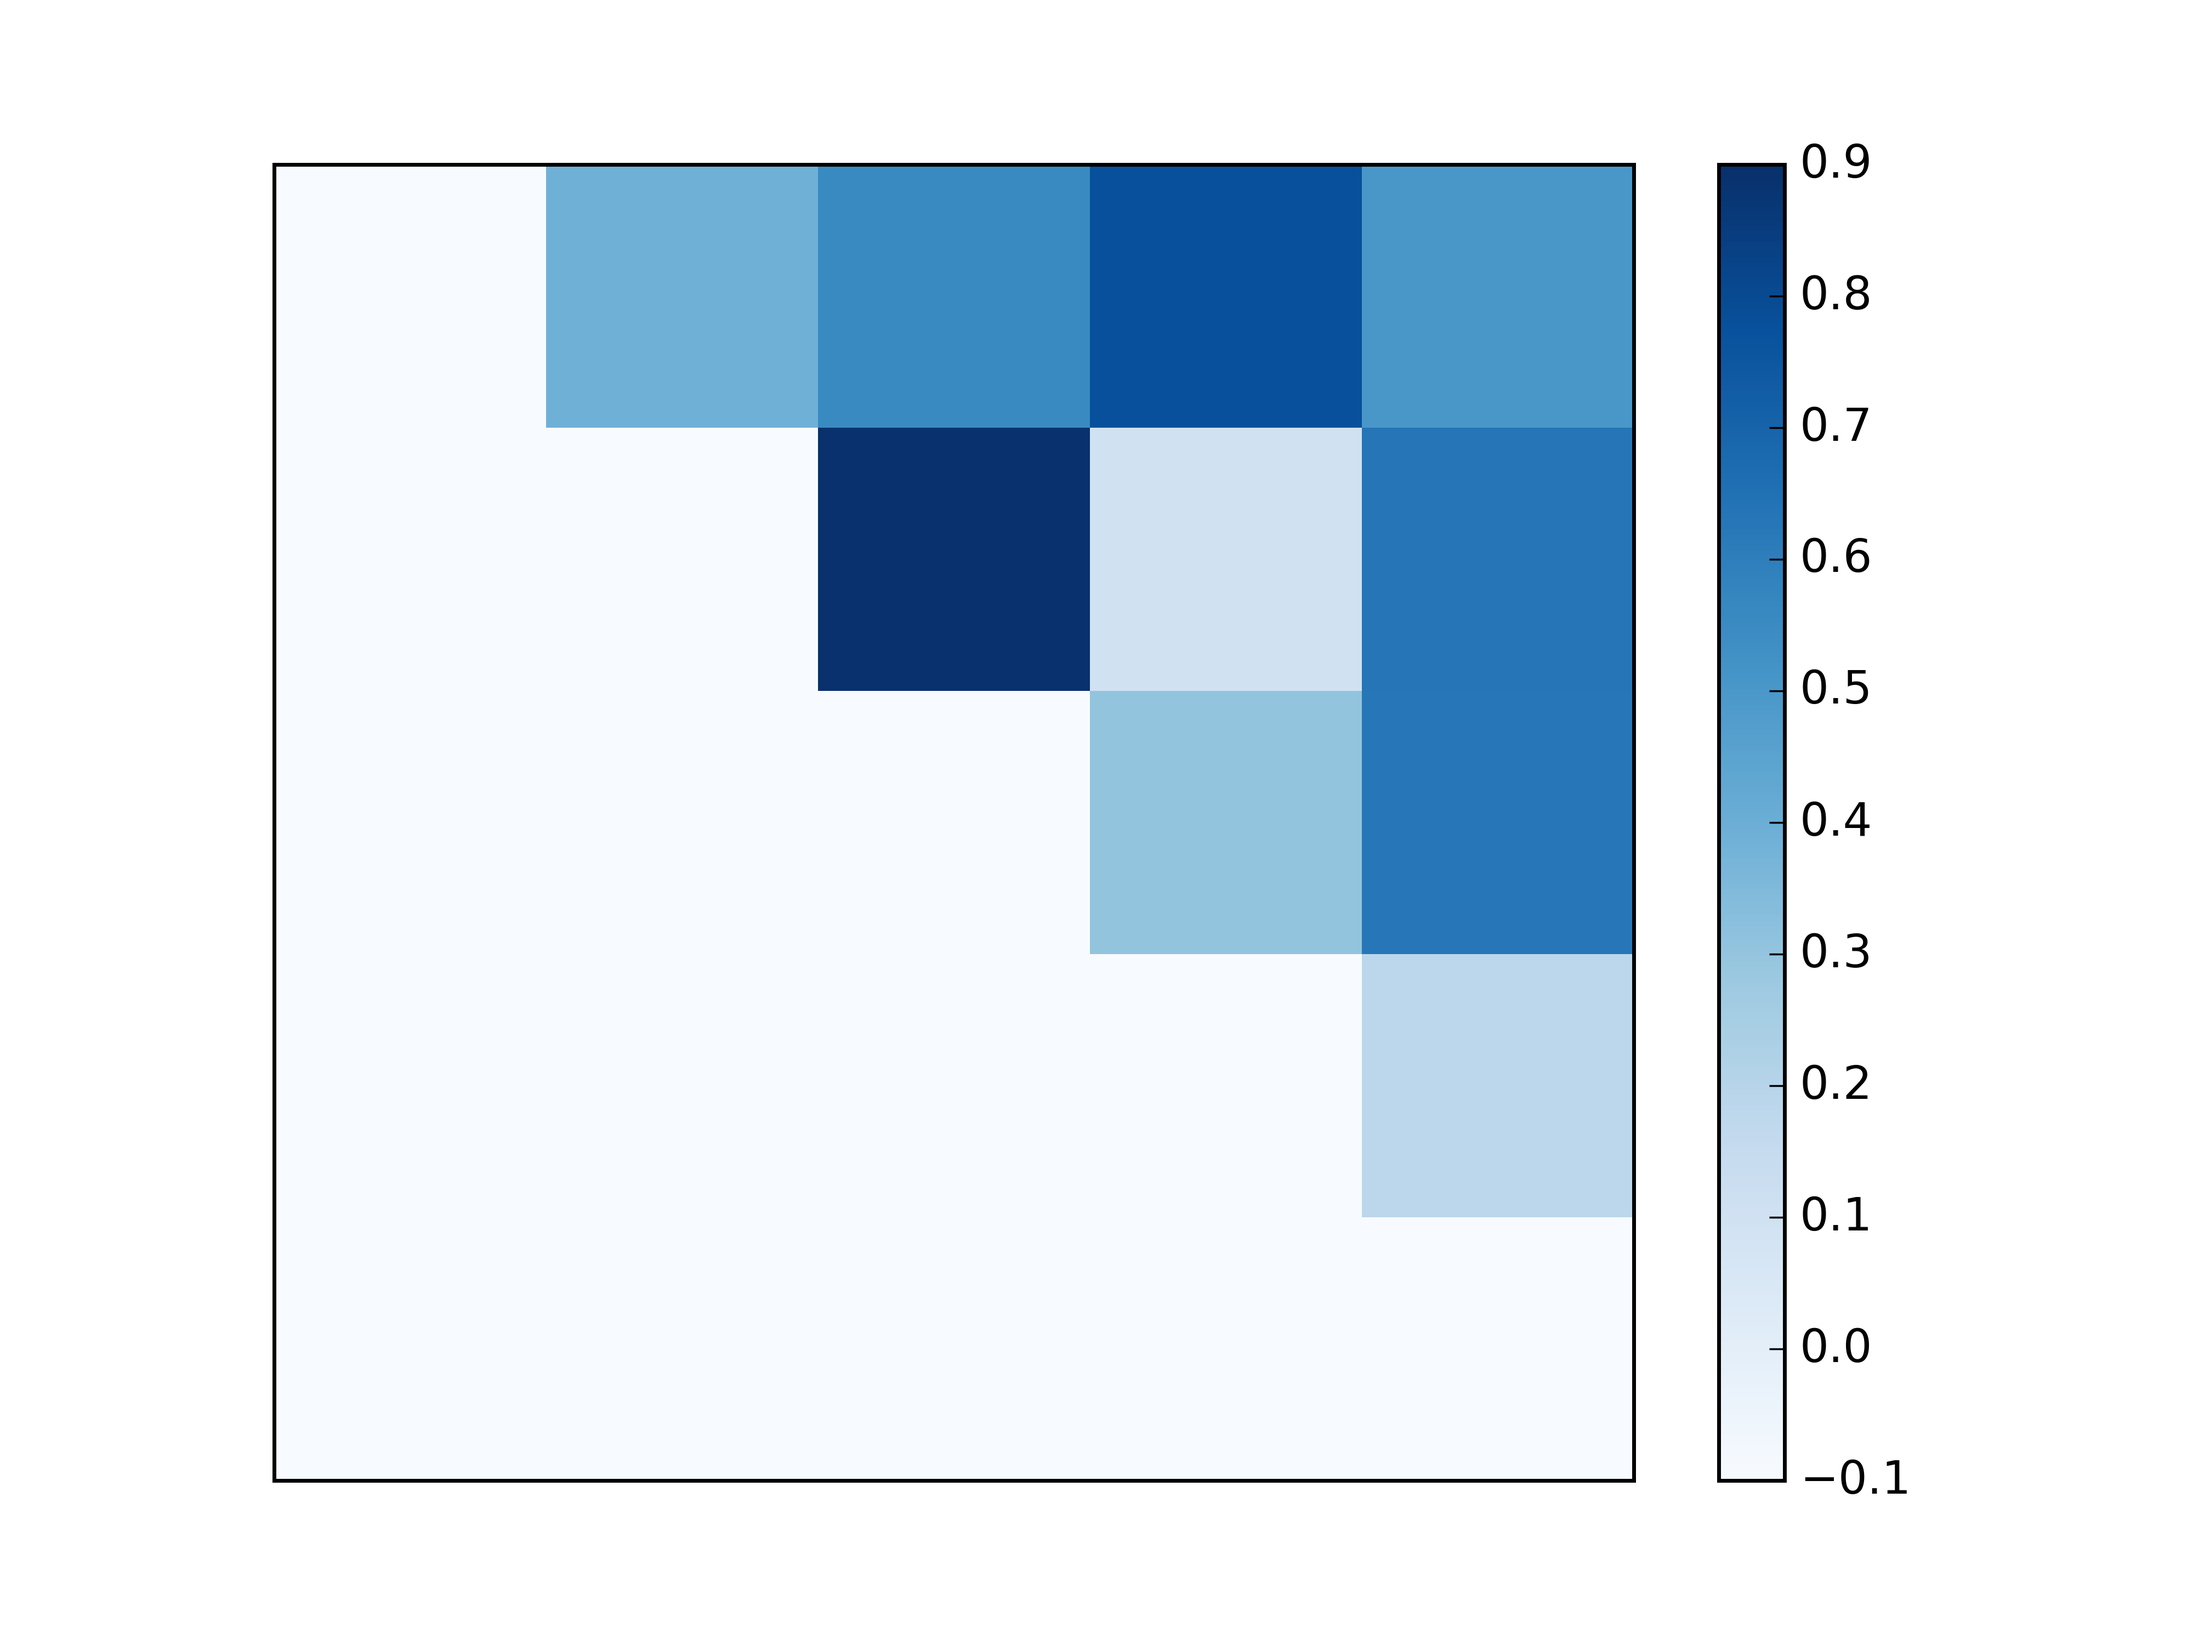
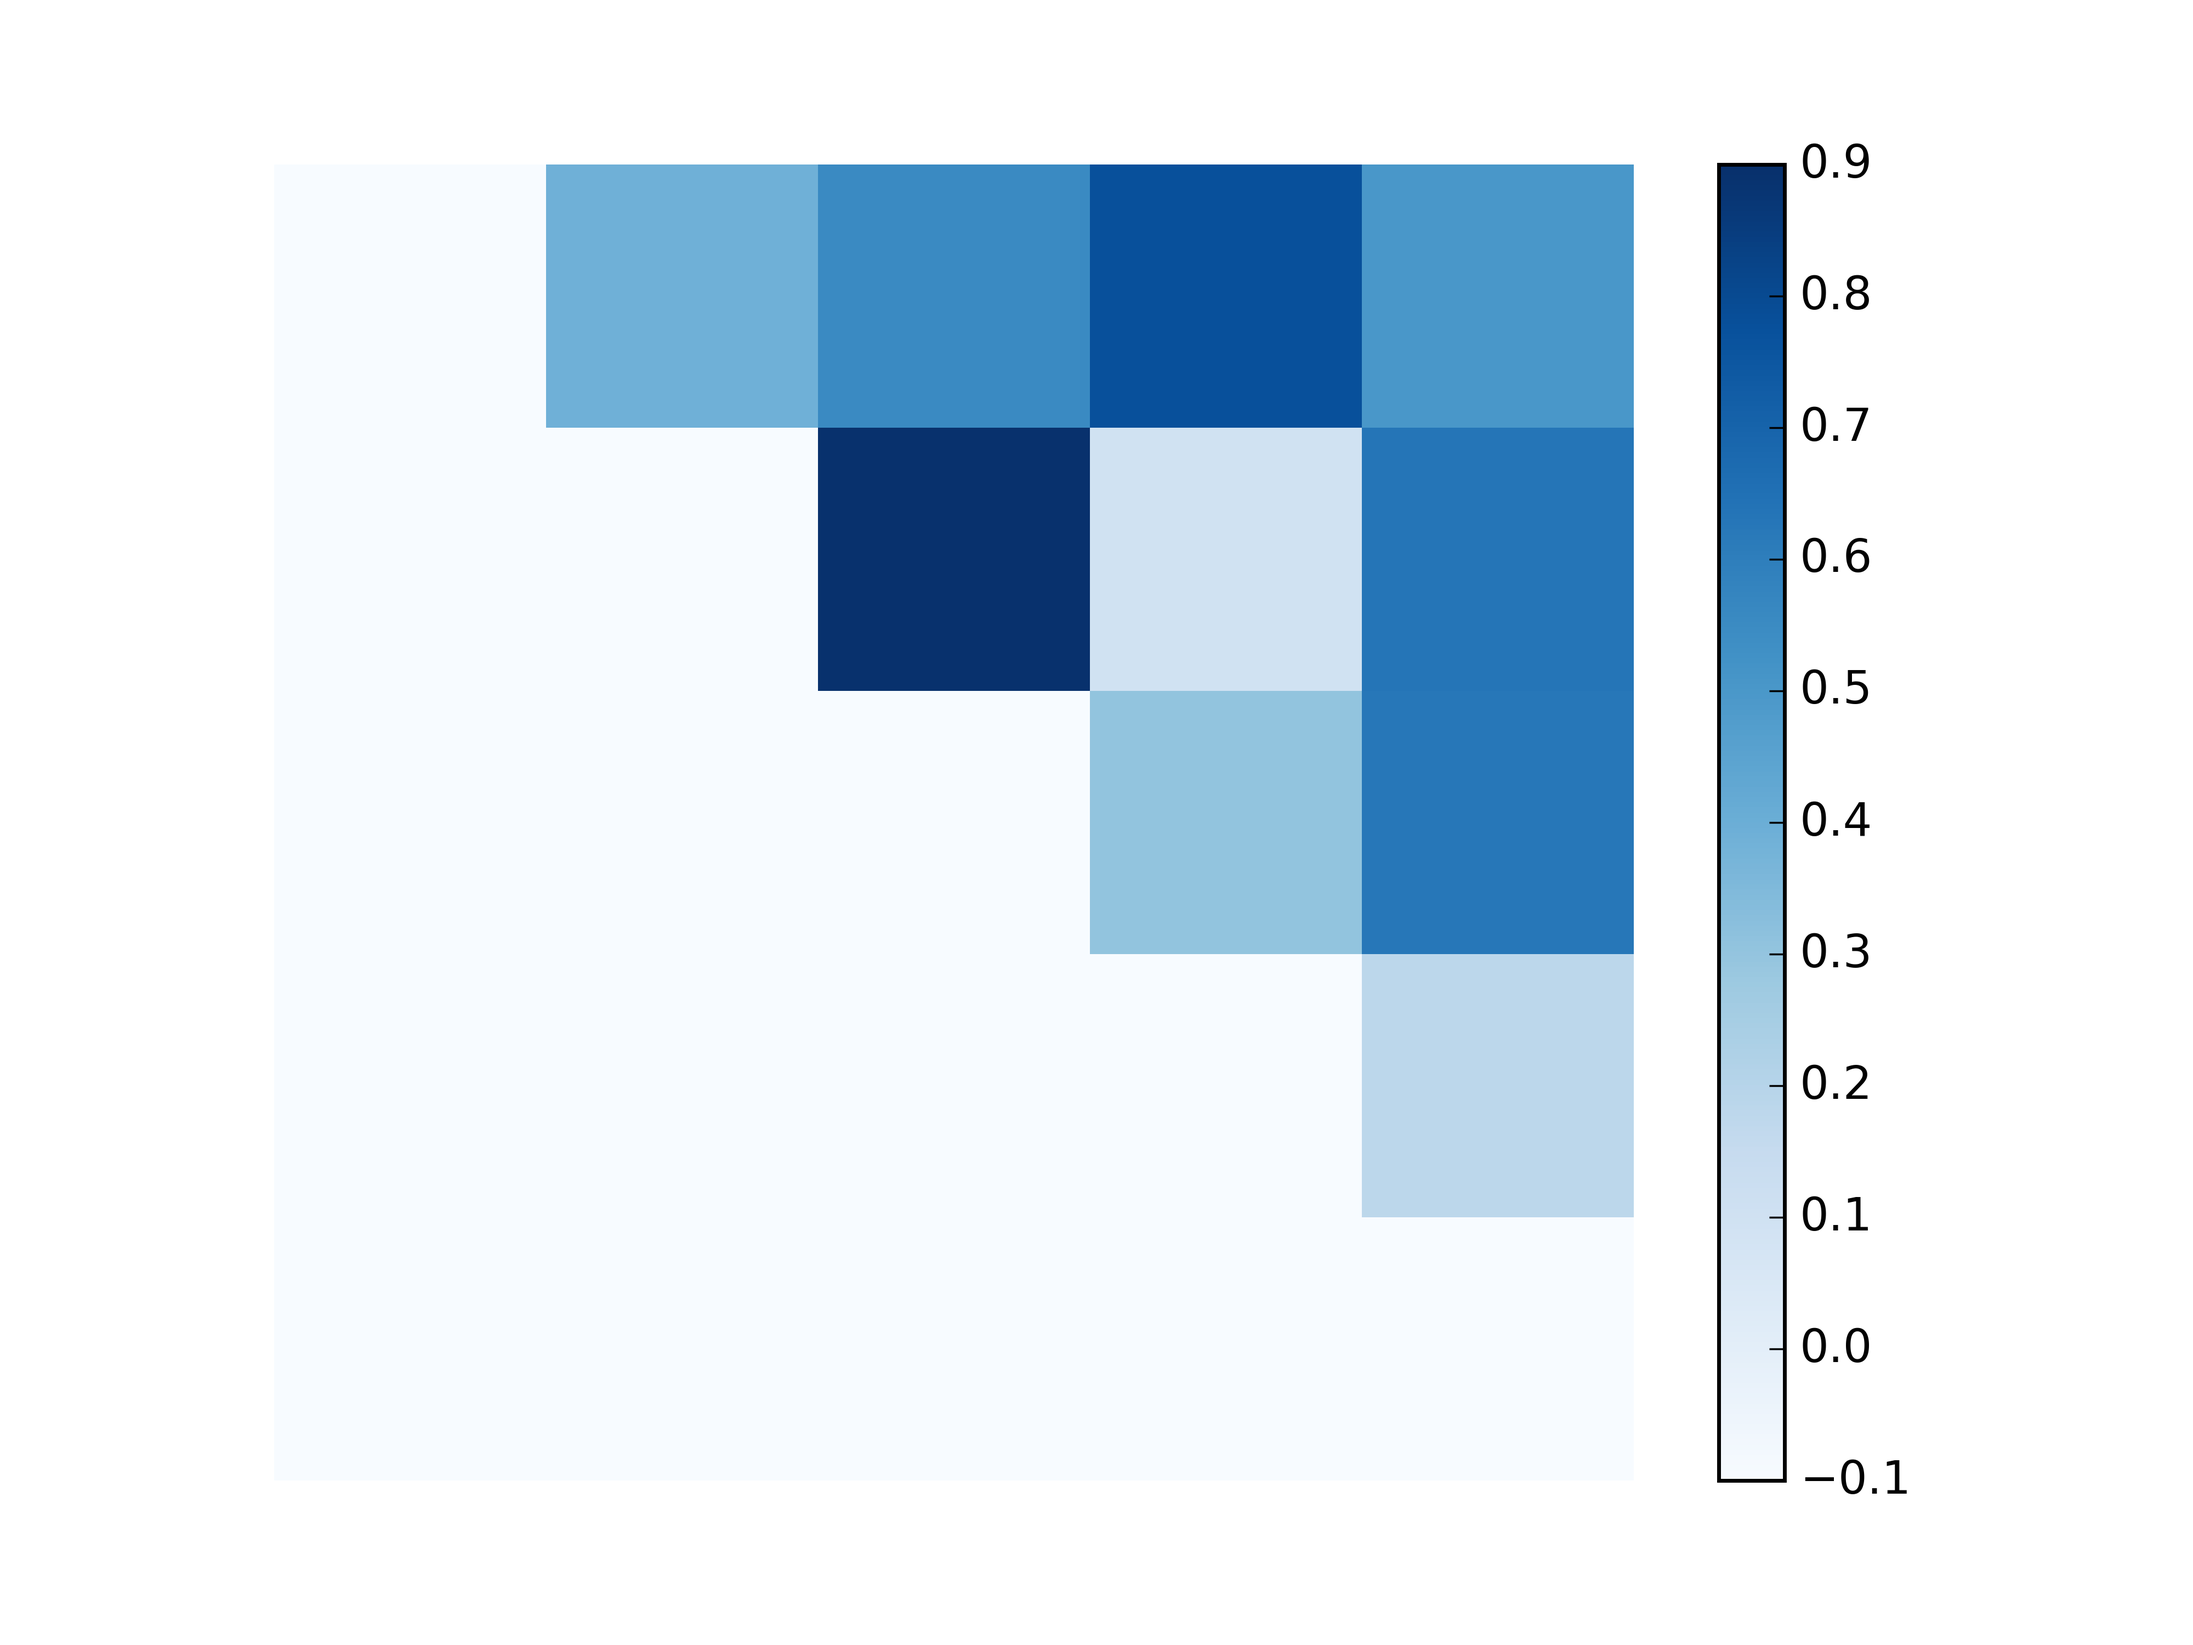
individual and composite heat maps

Changed region(s): [[0.7188, 0.093, 0.75, 0.124]]

diff --git a/study1-2-individual-traits.py b/study1-2-individual-traits.py
@@ -1,0 +1,61 @@
+import numpy as np
+import matplotlib.pylab as plt
+
+import matplotlib
+
+# Study 1
+
+matrix=[[-10,-10,-10,-10,-10,-10],
+	[0.86,-10,-10,-10,-10,-10],
+	[0.385,0.310,-10,-10,-10,-10],
+	[.404,.376,0.914,-10,-10,-10],
+	[0.543,0.515,0.799,0.850,-10,-10],
+	[0.522,0.511,0.85,0.904,0.903,-10]]
+
+m_rev=[]
+for i in range(len(matrix)):
+	temp=[]
+ 	for j in reversed(matrix[i]):
+ 		temp.append(j)
+ 	m_rev.append(temp)
+
+data=np.array(m_rev)
+
+plt.pcolor(data.T, cmap=matplotlib.cm.Blues,vmin=0,vmax=1)
+plt.colorbar()
+plt.xticks([])
+plt.yticks([])
+plt.axis('off')
+plt.savefig('study1_individual.png',dpi=500)
+
+# Study 2
+"""
+matrix=[[-10,-10,-10,-10,-10,-10,-10,-10,-10,-10,-10,-10],
+	[0.678,-10,-10,-10,-10,-10,-10,-10,-10,-10,-10,-10],
+	[0.715,.737,-10,-10,-10,-10,-10,-10,-10,-10,-10,-10],
+	[.727,0.675,.733,-10,-10,-10,-10,-10,-10,-10,-10,-10],
+	[.295,.123,.210,.231,-10,-10,-10,-10,-10,-10,-10,-10],
+	[.207,.054,.099,.144,.819,-10,-10,-10,-10,-10,-10,-10],
+	[.155,.069,.097,.093,.806,.890,-10,-10,-10,-10,-10,-10],
+	[.244,.073,.132,.132,.825,0.867,.912,-10,-10,-10,-10,-10],
+	[0.454,.278,.39,.361,.742,.597,.64,.677,-10,-10,-10,-10],
+	[.405,.319,.404,.4,.727,.612,.692,.673,.786,-10,-10,-10],
+	[.459,.315,.387,.364,.729,.576,.624,.645,.808,.803,-10,-10],
+	[.338,.135,.192,.241,.799,.737,.744,.753,.709,.702,.704,-10]]
+
+m_rev=[]
+for i in range(len(matrix)):
+	temp=[]
+ 	for j in reversed(matrix[i]):
+ 		temp.append(j)
+ 	m_rev.append(temp)
+
+data=np.array(m_rev)
+
+plt.pcolor(data.T, cmap=matplotlib.cm.Blues,vmin=0,vmax=1)
+plt.colorbar()
+plt.xticks([])
+plt.yticks([])
+plt.axis('off')
+plt.savefig('study2_individual.png',dpi=500)
+"""

diff --git a/study1-2-composite.py b/study1-2-composite.py
@@ -4,7 +4,7 @@ import matplotlib.pylab as plt
 import matplotlib
 
 # Study 1
-"""
+
 matrix=[[ -10   ,  -10,  -10,  -10,  -10],
        [ 0.39 ,  -10.   ,  -10, -10,  -10],
        [ 0.555,  0.893,  -10.   ,  -10,  -10],
@@ -24,12 +24,12 @@ plt.pcolor(data.T, cmap=matplotlib.cm.Blues,vmin=-0.1,vmax=0.9)
 plt.colorbar()
 plt.xticks([])
 plt.yticks([])
-
+plt.axis('off')
 plt.savefig('study1_composite.png',dpi=500)
-"""
+
 
 # Study 2
-
+"""
 matrix=[[ -10.   ,  -10 ,  -10,  -10,  -10],
        [ 0.168,  -10.   ,  -10,  -10,  -10],
        [ 0.424,  0.798,  -10.   ,  -10,  -10],
@@ -49,9 +49,9 @@ plt.pcolor(data.T, cmap=matplotlib.cm.Blues,vmin=-0.1,vmax=0.9)
 plt.colorbar()
 plt.xticks([])
 plt.yticks([])
-
+plt.axis('off')
 plt.savefig('study2_composite.png',dpi=500)
-
+"""
 #matrix=[[ 0.   ,  0.168,  0.424,  0.689,  0.585],
 #       [ 0.39 ,  0.   ,  0.798, -0.069,  0.422],
 #       [ 0.555,  0.893,  0.   ,  0.163,  0.534],
